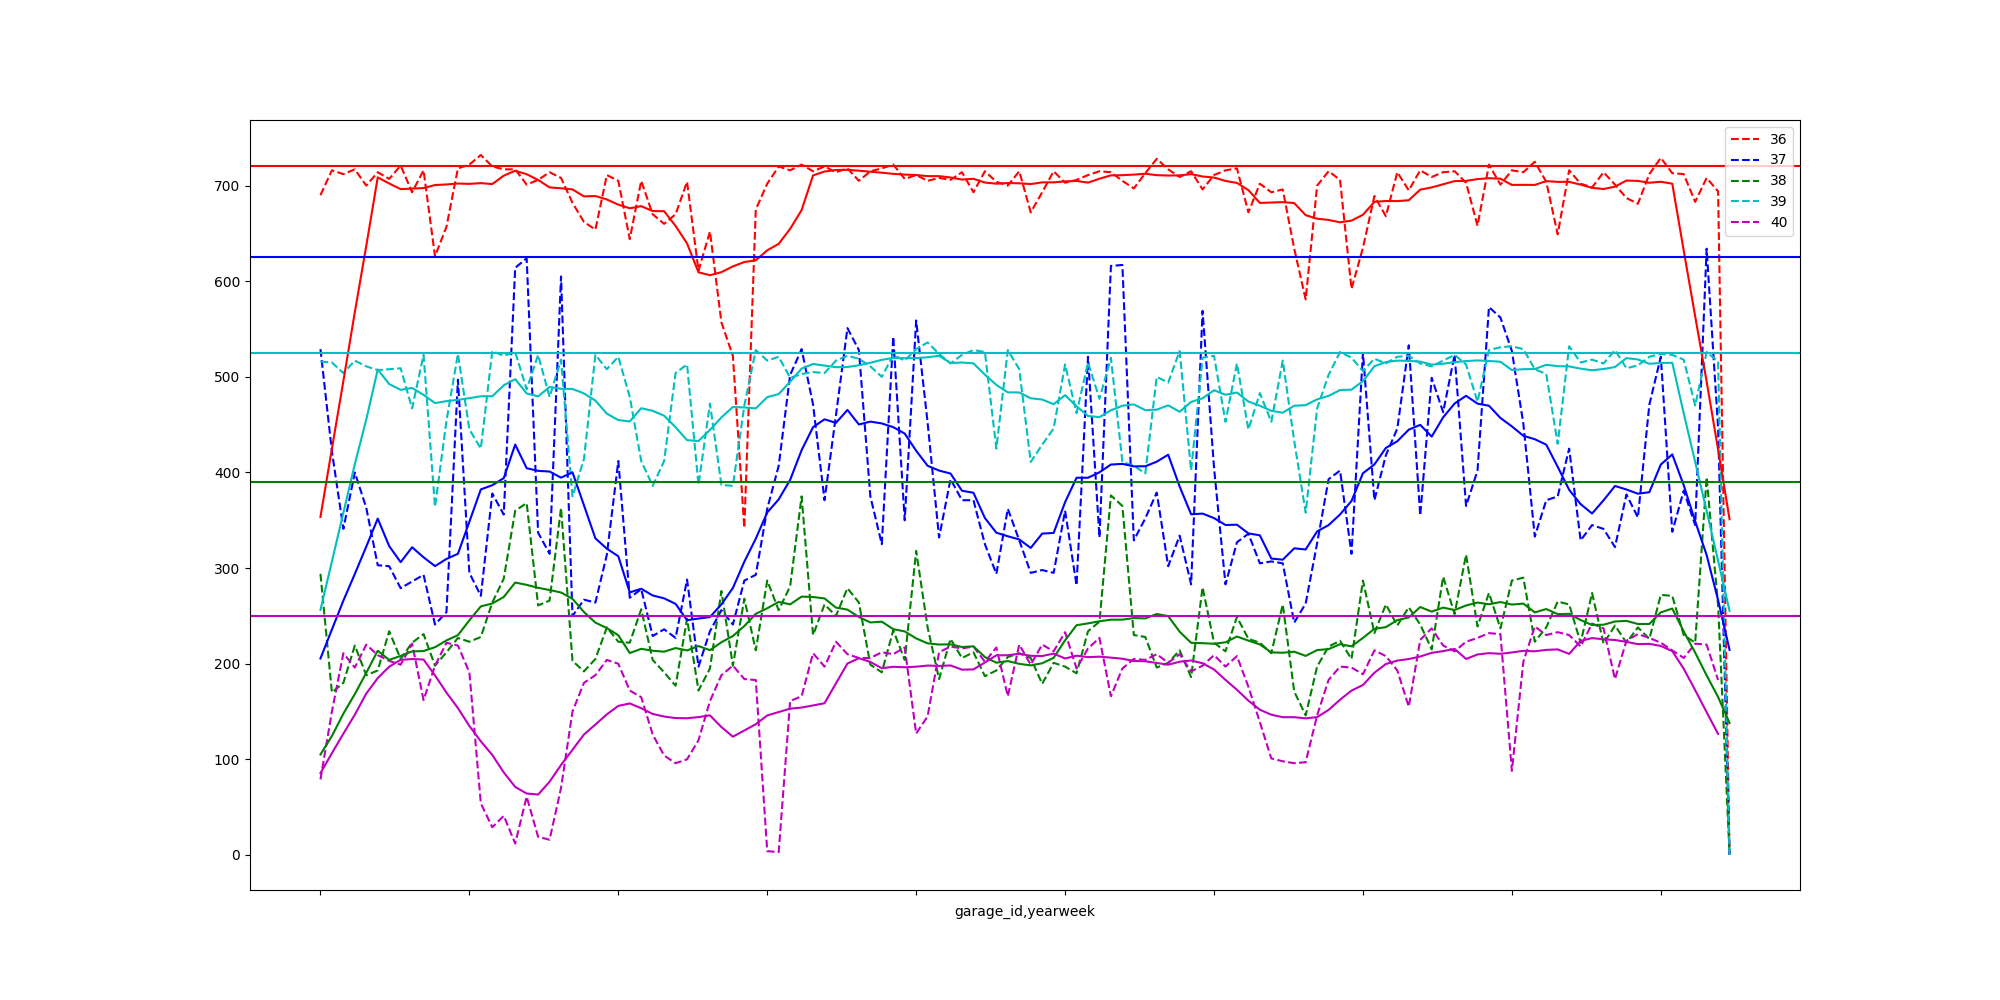
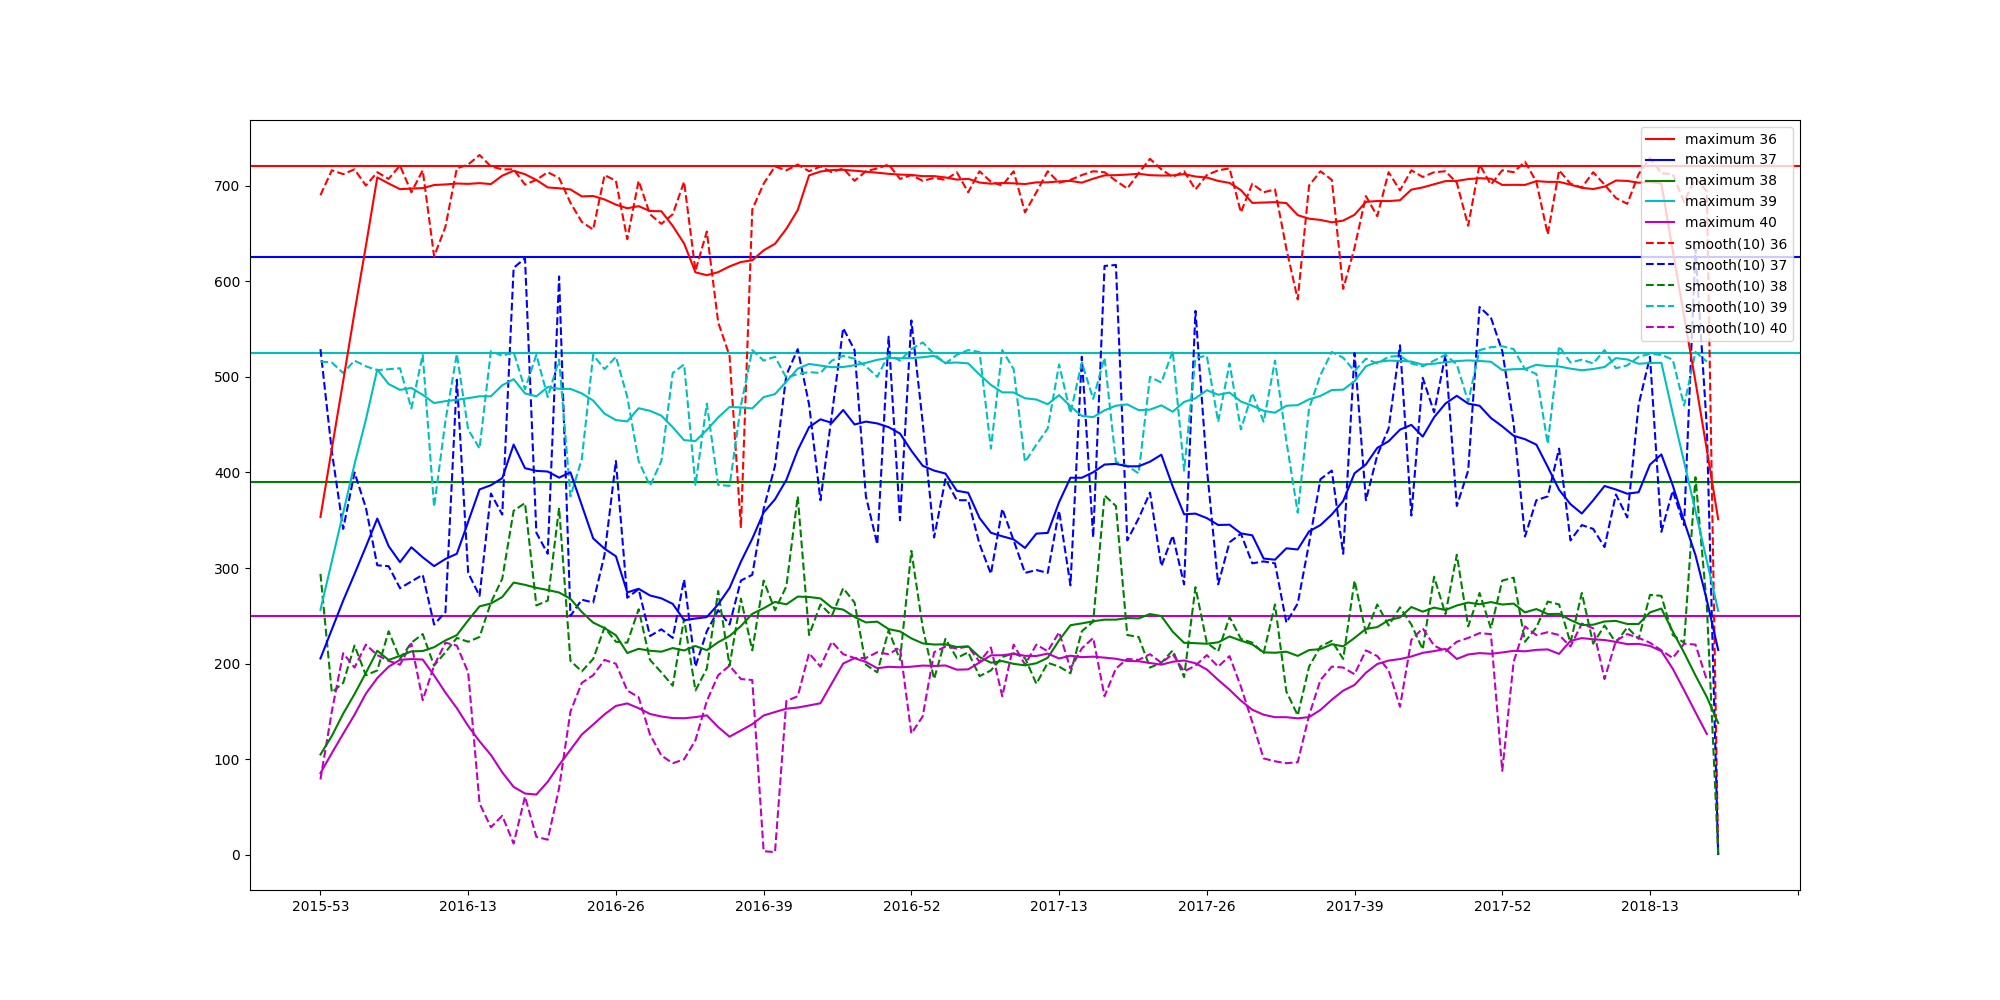
Added combined flux plots

diff --git a/Groep 5/parking/minmax.py b/Groep 5/parking/minmax.py
@@ -59,29 +59,41 @@ if __name__ == '__main__':
 
     colors = ['r','b','g','c','m']
 
+    xlabels = ts['yearweek'].unique()
+
+    legend = []
+    legend.extend(['minimum %s' % i for i in np.arange(36, 41)])
+    legend.extend(['smooth(10) %s' % i for i in np.arange(36, 41)])
+
     fig, ax = plt.subplots(figsize=(20, 10))
-    ax.xaxis.set_major_formatter(FuncFormatter(yearweek_formatter_labels(ts['yearweek'], 13)))
+    ax.xaxis.set_major_formatter(FuncFormatter(yearweek_formatter_labels(xlabels, 13)))
     ax.xaxis.set_major_locator(MultipleLocator(13))
-    min.groupby('garage_id').plot(style='.')
-    plt.plot(min.groupby('garage_id').apply(smooth(10)).apply(pd.Series).transpose())
-    ax.legend(loc='upper right')
+    ax.set_color_cycle(colors)
+    ax.plot(min.groupby('garage_id').apply(pd.Series).unstack(0), linestyle='--')
+    ax.plot(min.groupby('garage_id').apply(smooth(10)).apply(pd.Series).transpose())
+    ax.legend(legend, loc='upper right')
     plt.savefig('results/parking_garages_min.png')
     #plt.show()
     plt.close()
 
+    legend = []
+    legend.extend(['maximum %s' % i for i in np.arange(36, 41)])
+    legend.extend(['smooth(10) %s' % i for i in np.arange(36, 41)])
+
     fig, ax = plt.subplots(figsize=(20, 10))
-    ax.xaxis.set_major_formatter(FuncFormatter(yearweek_formatter_labels(ts['yearweek'].unique(), 13)))
-    ax.xaxis.set_major_locator(MultipleLocator(13))
-    ax.set_color_cycle(colors)
-    max.groupby('garage_id').plot(style='.')
-    plt.plot(max.groupby('garage_id').apply(smooth(10)).apply(pd.Series).transpose())
     i = 0
     for garage_id,v in garages.sort_index().iterrows():
         capacity = garages.loc[[garage_id]]['capacity_value'].iloc[0]
         ax.axhline(y=capacity, color=colors[i])
         i = i + 1
 
-    ax.legend(loc='upper right')
+    ax.xaxis.set_major_formatter(FuncFormatter(yearweek_formatter_labels(xlabels, 13)))
+    ax.xaxis.set_major_locator(MultipleLocator(13))
+    ax.set_color_cycle(colors)
+    ax.plot(max.groupby('garage_id').apply(pd.Series).unstack(0), linestyle='--')
+    ax.plot(max.groupby('garage_id').apply(smooth(10)).apply(pd.Series).transpose())
+    ax.legend(legend, loc='upper right')
+
     plt.savefig('results/parking_garages_max.png')
     #plt.show()
     plt.close()

diff --git a/Groep 5/parking/util.py b/Groep 5/parking/util.py
@@ -7,6 +7,9 @@ import time
 
 weekday_labels = ['ma','di','wo','do','vr','za','zo']
 
+def day(x):
+    return x.date()
+
 def weekday_hour_formatter(val, pos):
     #if val % 24 == 0:
     return weekday_labels[int(val / 24) % 7]
@@ -17,9 +20,19 @@ def weekday_formatter(val, pos):
 
 def yearweek_formatter(df, d):
     labels = df.index
+    print(d)
+    def f(val, pos):
+        if val % d == 0 and val < len(labels):
+            return labels[int(val)]
+        return ''
+    return f
+
+def yearweek_formatter_labels(labels, d):
     def f(val, pos):
         print('%s %s' % (val, pos))
-        if val % d == 0 and val < len(labels):
+        if val % d == 0 and val < len(labels) and val >= 0:
+            print(labels)
+            print('return %s' % labels[int(val)])
             return labels[int(val)]
         return ''
     return f
